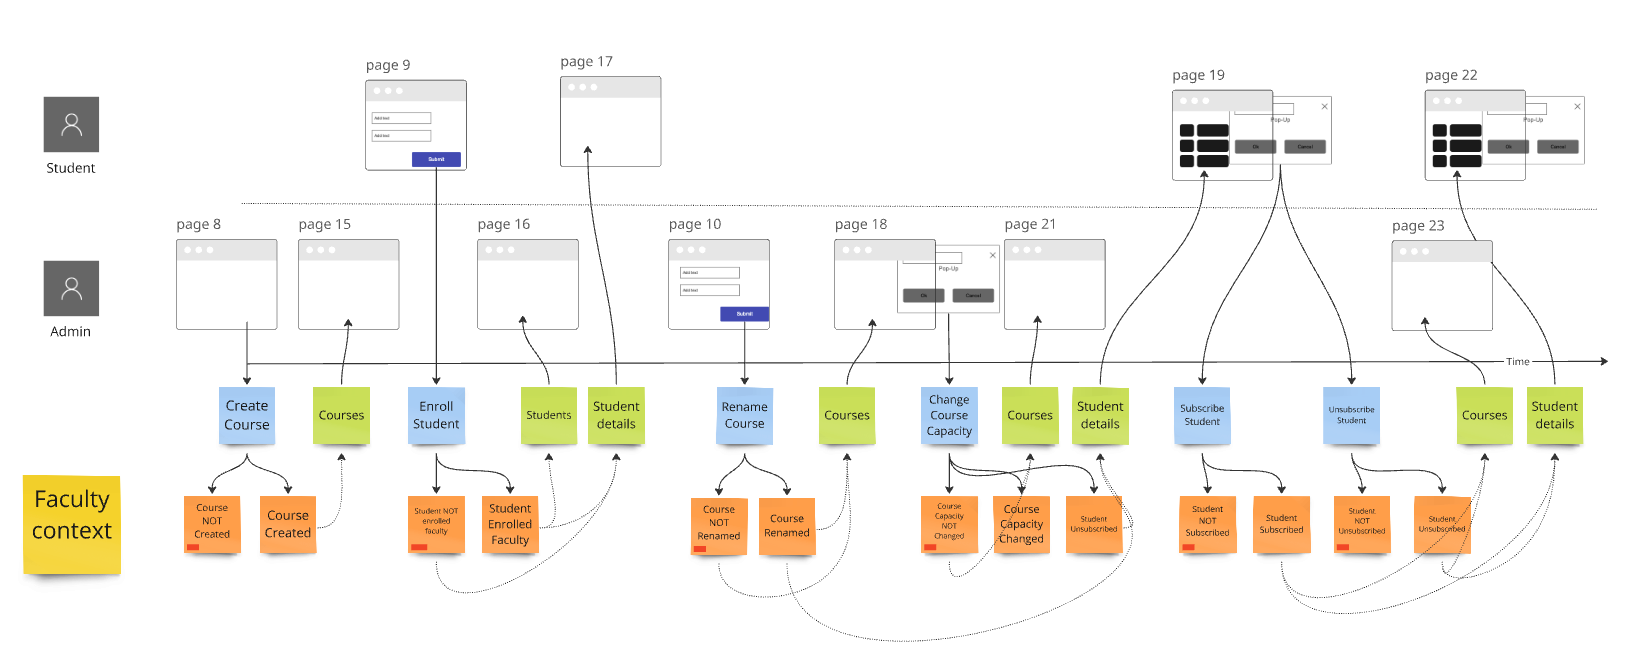
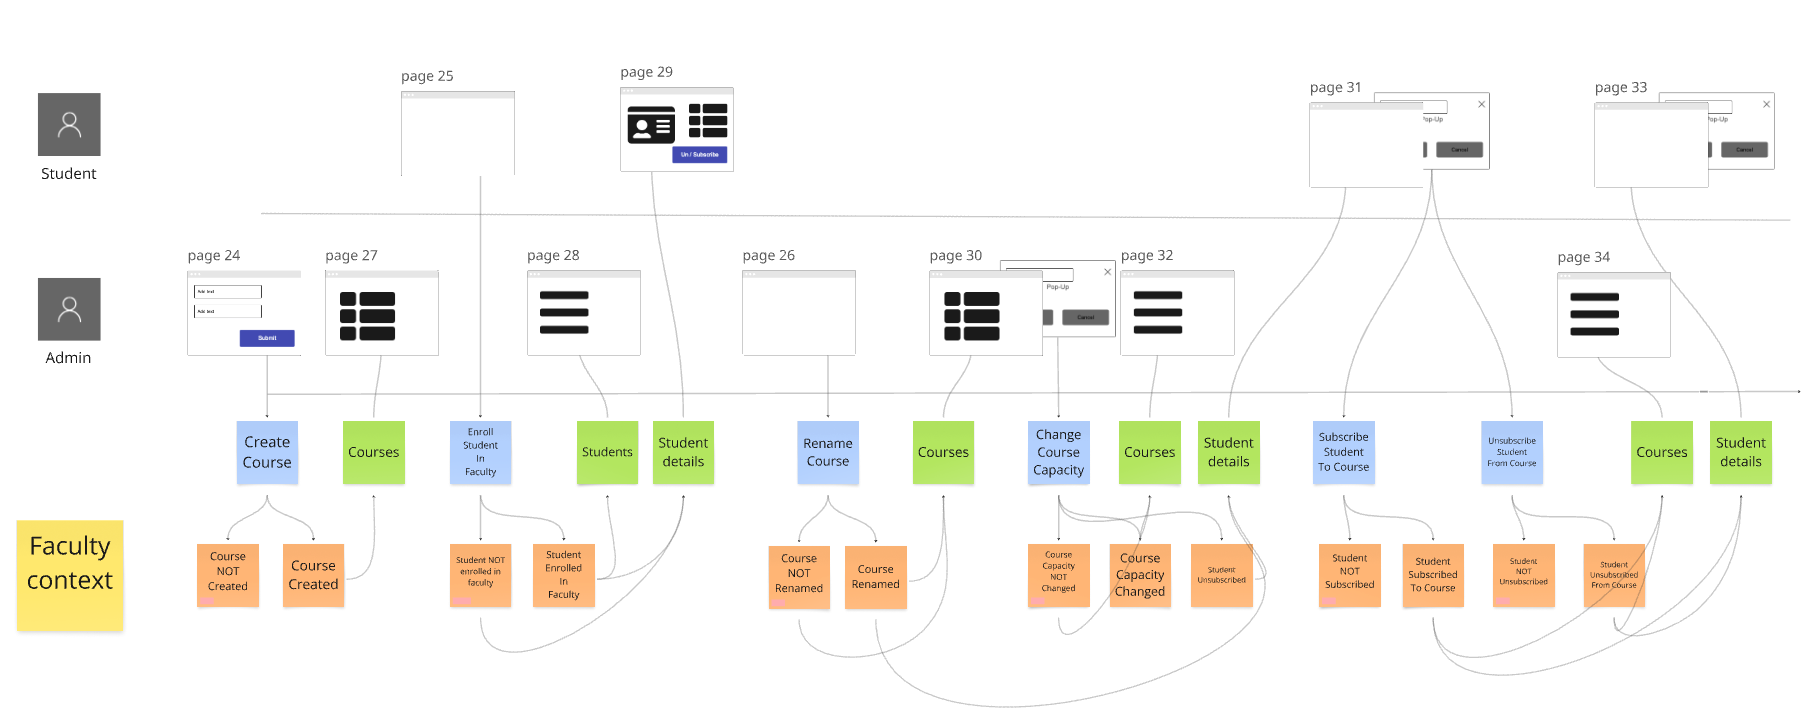
📝 docs: `README.md` | update images

diff --git a/_import/AxonFramework/examples/university-demo/README.md b/_import/AxonFramework/examples/university-demo/README.md
@@ -56,7 +56,7 @@ Tests are focused on observable behavior, so the domain model can be refactored 
 
 ### Example: write slice
 
-![WriteSlice_GWT.png](docs/images/WriteSlice_GWT.png)
+![WriteSlice_GWT.png](docs/images/EventModeling_GWT_SubscribeStudent.png)
 
 ```java
 @BeforeEach
